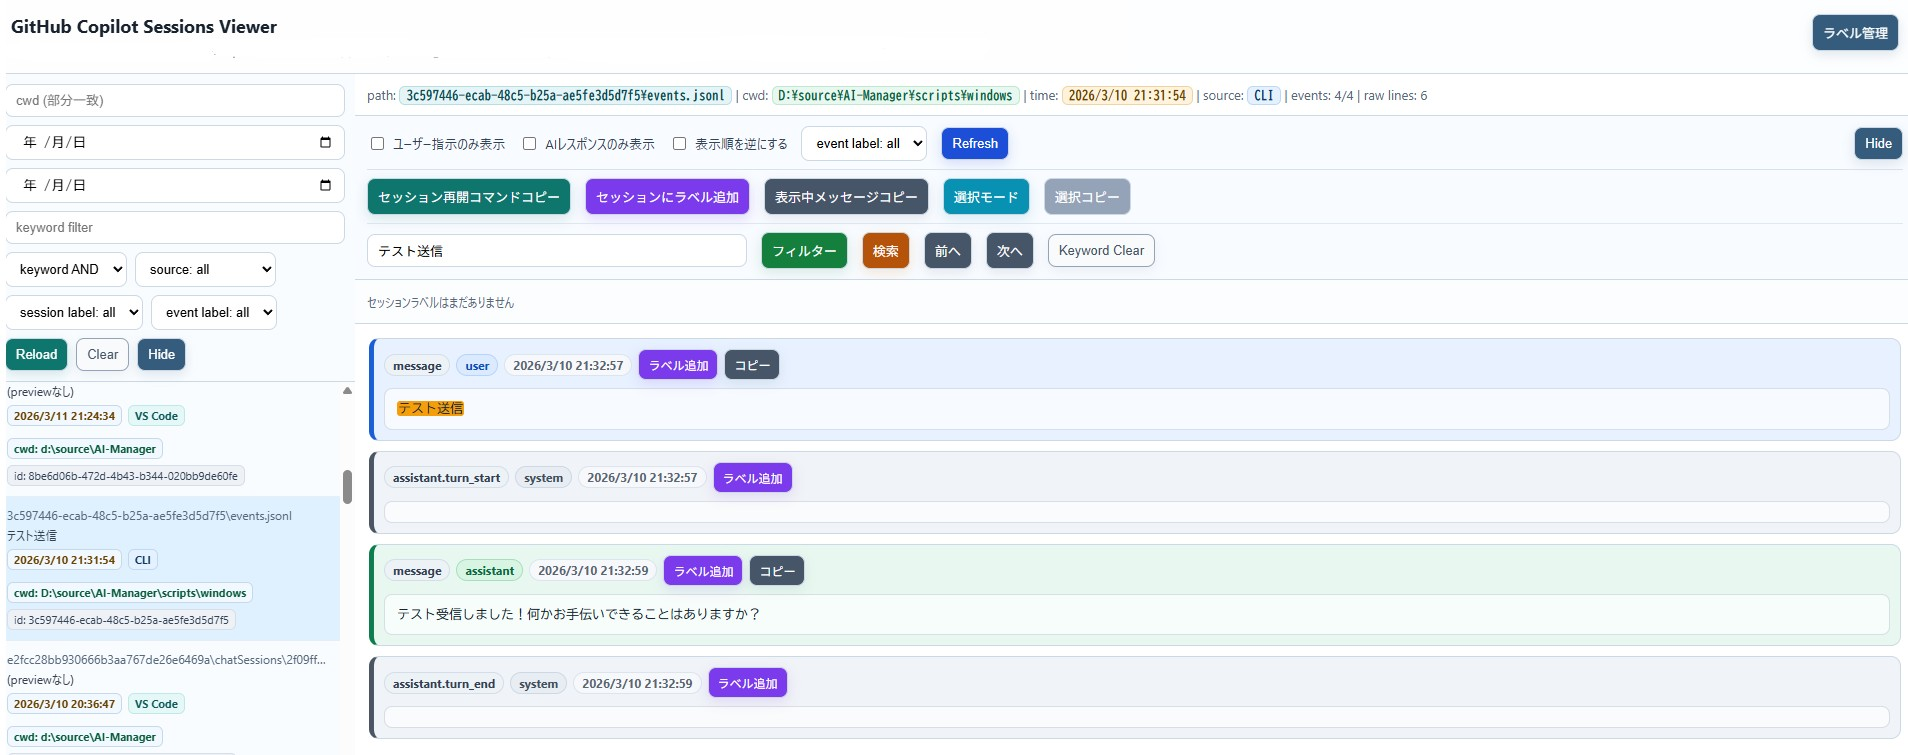
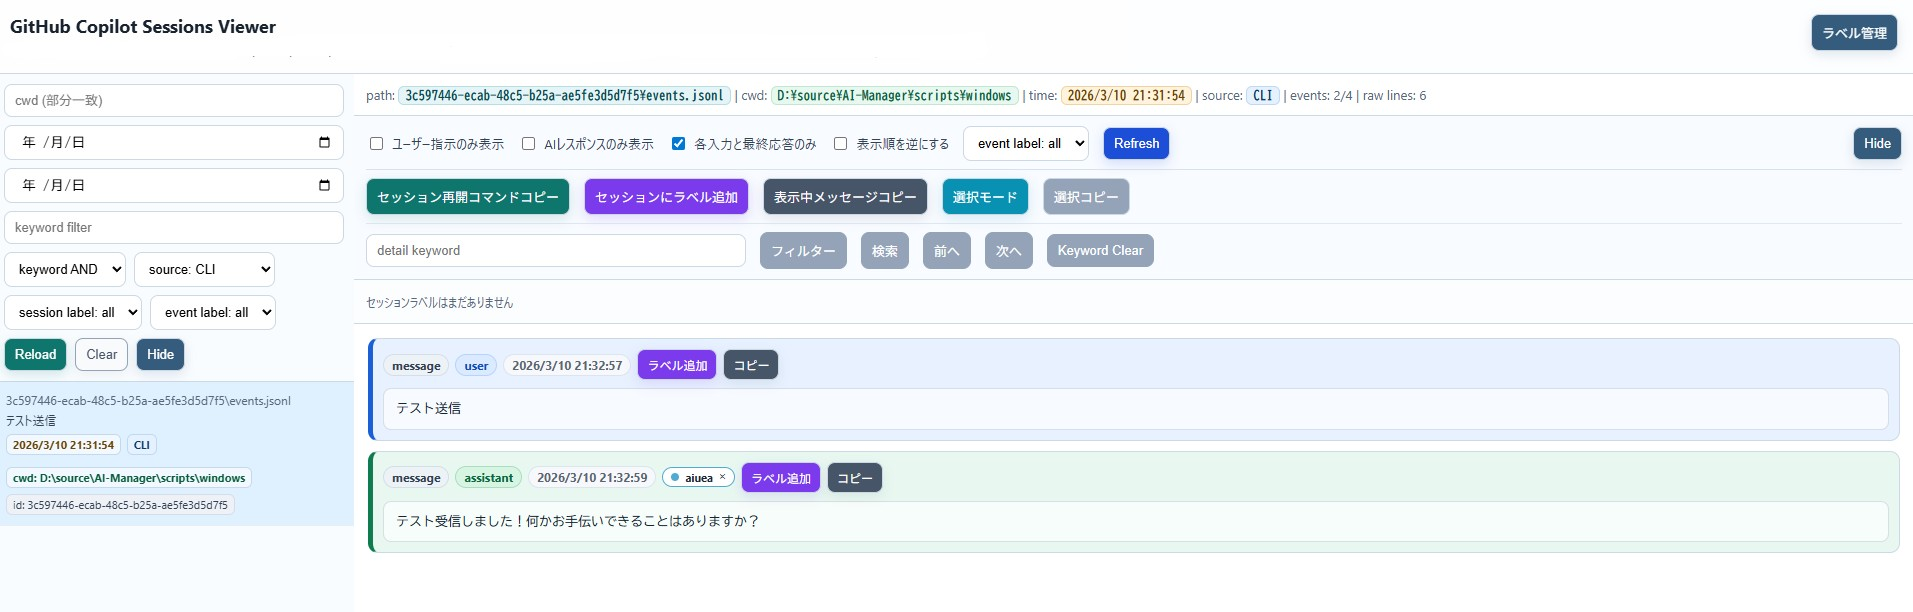
- 各入力と最終応答のみフィルター実装

diff --git a/viewer.py b/viewer.py
@@ -2339,6 +2339,7 @@ pre {
       <div class="detail-toolbar-row primary">
         <label><input type="checkbox" id="only_user_instruction" /> ユーザー指示のみ表示</label>
         <label><input type="checkbox" id="only_ai_response" /> AIレスポンスのみ表示</label>
+        <label title="各ターンの user 入力と、その直後の最後の assistant 応答だけを表示"><input type="checkbox" id="turn_boundary_only" /> 各入力と最終応答のみ</label>
         <label><input type="checkbox" id="reverse_order" /> 表示順を逆にする</label>
         <select id="detail_event_label_filter">
           <option value="">event label: all</option>
@@ -2553,6 +2554,49 @@ function getSelectedListEventLabelFilter(){
 
 function getSelectedDetailEventLabelFilter(){
   return document.getElementById('detail_event_label_filter').value || '';
+}
+
+function isTurnBoundaryFilterEnabled(){
+  const checkbox = document.getElementById('turn_boundary_only');
+  return !!(checkbox && checkbox.checked);
+}
+
+function filterEventsToTurnBoundaries(events){
+  if(!Array.isArray(events) || events.length === 0){
+    return Array.isArray(events) ? events : [];
+  }
+  const filtered = [];
+  let pendingUser = null;
+  let lastAssistant = null;
+
+  function flushTurn(){
+    if(!pendingUser){
+      return;
+    }
+    filtered.push(pendingUser);
+    if(lastAssistant){
+      filtered.push(lastAssistant);
+    }
+    pendingUser = null;
+    lastAssistant = null;
+  }
+
+  events.forEach(ev => {
+    if(ev.kind !== 'message'){
+      return;
+    }
+    if(ev.role === 'user'){
+      flushTurn();
+      pendingUser = ev;
+      return;
+    }
+    if(ev.role === 'assistant' && pendingUser){
+      lastAssistant = ev;
+    }
+  });
+
+  flushTurn();
+  return filtered;
 }
 
 function populateLabelSelect(selectId, allLabel){
@@ -3494,6 +3538,9 @@ function renderSessionList(){
 
 function getDisplayEvents(){
   let events = state.activeEvents || [];
+  if(isTurnBoundaryFilterEnabled()){
+    events = filterEventsToTurnBoundaries(events);
+  }
   const selectedEventLabelId = getSelectedDetailEventLabelFilter();
   if(selectedEventLabelId){
     events = events.filter(ev => (ev.labels || []).some(label => String(label.id) === selectedEventLabelId));
@@ -3890,6 +3937,9 @@ document.getElementById('only_user_instruction').addEventListener('change', () =
   renderActiveSession();
 });
 document.getElementById('only_ai_response').addEventListener('change', () => {
+  renderActiveSession();
+});
+document.getElementById('turn_boundary_only').addEventListener('change', () => {
   renderActiveSession();
 });
 document.getElementById('reverse_order').addEventListener('change', () => {

diff --git a/README.md b/README.md
@@ -120,6 +120,8 @@ python viewer.py
   - 表示オプション
     - 「ユーザー指示のみ表示」
     - 「AIレスポンスのみ表示」
+    - 「各入力と最終応答のみ」
+      - 各ターンで `user` の入力 1 件と、次の `user` が来るまでの最後の `assistant` 1 件だけを表示
     - 「表示順を逆にする」
     - `event label: all` フィルタ
   - キーワード検索

diff --git a/README_en.md b/README_en.md
@@ -120,6 +120,8 @@ python viewer.py
   - Display options
     - `Show only user instructions`
     - `Show only AI responses`
+    - `Show only each input and final response`
+      - For each turn, keeps one `user` message and only the last `assistant` message before the next `user`
     - `Reverse display order`
     - `event label: all` filter
   - Keyword search
